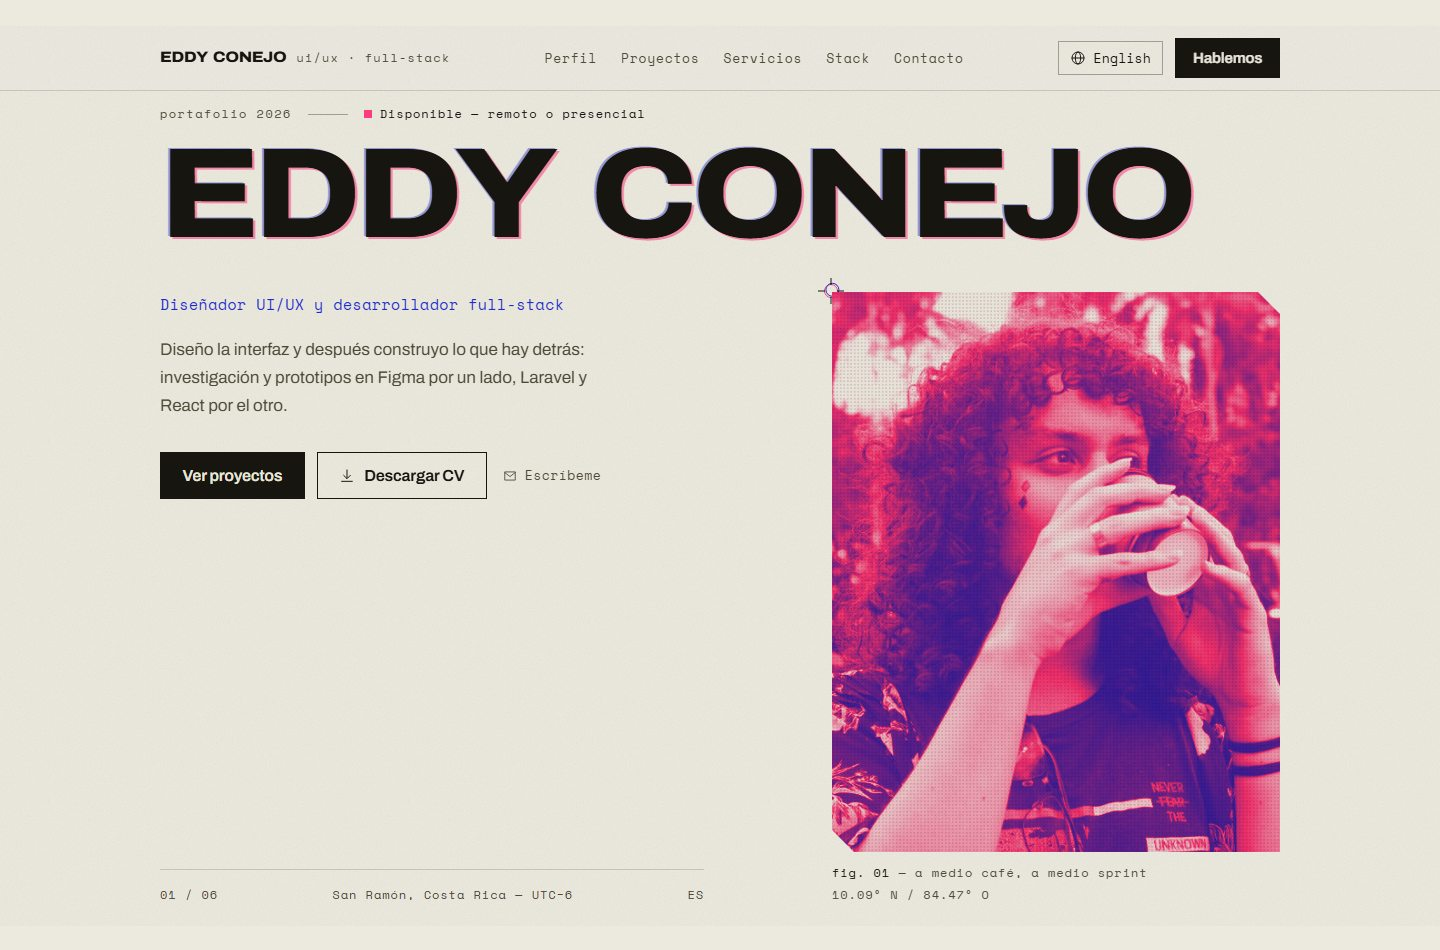
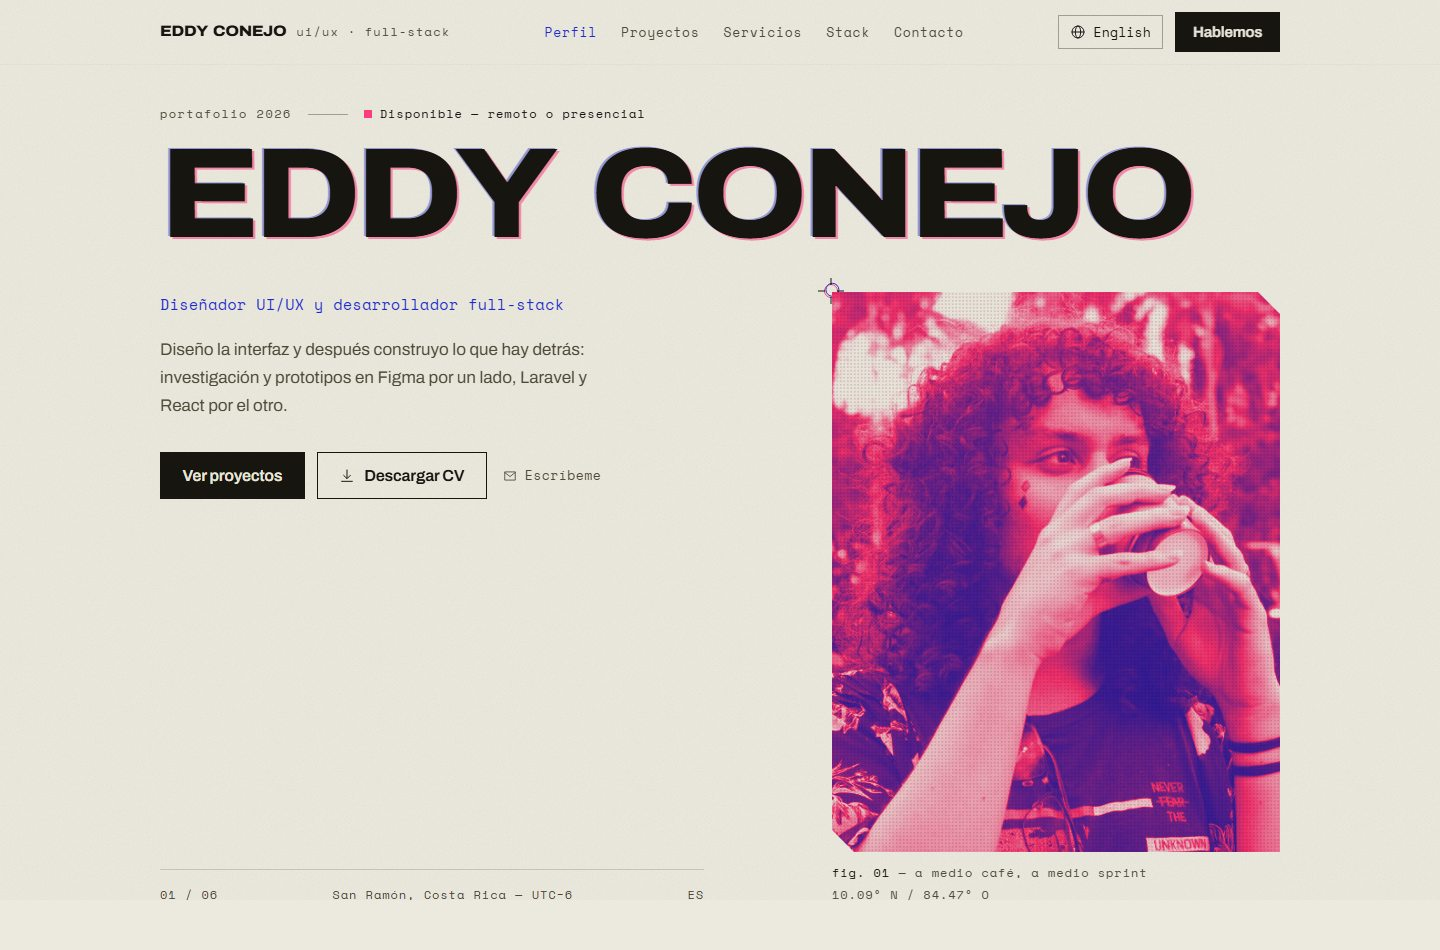
proyectos: captura real de LinkTrim y vista ampliada de la lamina
Extrae la captura de LinkTrim a src/assets/projects/linktrim.jpg (1600x789, 40 KB) y agrega un visor con dialog nativo: la lamina se abre a tamano completo con clic o teclado, cierra con Escape, clic fuera o boton, y devuelve el foco al disparador. Tambien agrega alt propio por proyecto.

diff --git a/src/components/Work.jsx b/src/components/Work.jsx
@@ -1,3 +1,4 @@
+import { useEffect, useRef, useState } from 'react'
 import { useLang } from '../LangContext'
 import { PROJECT_SLUGS } from '../site'
 import { projectImage } from '../projectImages'
@@ -7,6 +8,28 @@ import PlateFigure from './PlateFigures'
 export default function Work() {
   const { t } = useLang()
   const w = t.work
+  const [viewer, setViewer] = useState(null)
+  const dialogRef = useRef(null)
+
+  /* Native <dialog> handles Escape and focus return; we only sync the state. */
+  useEffect(() => {
+    const dialog = dialogRef.current
+    if (!dialog) return
+    if (viewer && !dialog.open) {
+      dialog.showModal()
+    } else if (!viewer && dialog.open) {
+      dialog.close()
+    }
+  }, [viewer])
+
+  useEffect(() => {
+    if (!viewer) return
+    const previous = document.body.style.overflow
+    document.body.style.overflow = 'hidden'
+    return () => {
+      document.body.style.overflow = previous
+    }
+  }, [viewer])
 
   return (
     <section id="work" className="section border-t border-line bg-paper-deep">
@@ -18,6 +41,10 @@ export default function Work() {
             const figureFirst = index % 2 === 1
             /* A real capture in src/assets/projects/ wins over the drawing. */
             const shot = projectImage(PROJECT_SLUGS[index])
+            const alt = plate.imageAlt ?? `${plate.title} — ${plate.kind}`
+            const figureClass = figureFirst
+              ? 'md:col-span-5 md:col-start-2 md:row-start-1'
+              : 'md:col-span-5 md:col-start-8 md:row-start-1'
 
             return (
               <article
@@ -64,24 +91,27 @@ export default function Work() {
                   </div>
                 </div>
 
-                <figure
-                  className={
-                    figureFirst
-                      ? 'md:col-span-5 md:col-start-2 md:row-start-1'
-                      : 'md:col-span-5 md:col-start-8 md:row-start-1'
-                  }
-                >
+                <figure className={figureClass}>
                   <div className="border border-line bg-paper p-2.5">
                     {shot ? (
-                      <img
-                        src={shot}
-                        alt={`${plate.title} — ${plate.kind}`}
-                        width="1600"
-                        height="1000"
-                        loading="lazy"
-                        decoding="async"
-                        className="block aspect-[16/10] w-full object-cover object-top"
-                      />
+                      <button
+                        type="button"
+                        onClick={() =>
+                          setViewer({ src: shot, alt, title: plate.title, kind: plate.kind })
+                        }
+                        className="group block w-full cursor-zoom-in"
+                        aria-label={`${plate.title}: ${w.zoom}`}
+                      >
+                        <img
+                          src={shot}
+                          alt={alt}
+                          width="1600"
+                          height="1000"
+                          loading="lazy"
+                          decoding="async"
+                          className="block aspect-[16/10] w-full object-cover object-top transition-opacity duration-200 group-hover:opacity-90"
+                        />
+                      </button>
                     ) : (
                       <PlateFigure index={index} />
                     )}
@@ -90,6 +120,7 @@ export default function Work() {
                     <span>fig. {String(index + 2).padStart(2, '0')}</span>
                     <span className="lowercase">
                       plate {String(index + 1).padStart(2, '0')}
+                      {shot ? <span className="text-cobalt"> · {w.zoom}</span> : null}
                     </span>
                   </figcaption>
                 </figure>
@@ -98,6 +129,34 @@ export default function Work() {
           })}
         </div>
       </div>
+
+      <dialog
+        ref={dialogRef}
+        className="plate-dialog"
+        aria-label={viewer ? `${viewer.title}: ${w.zoom}` : undefined}
+        onClose={() => setViewer(null)}
+        onClick={(event) => {
+          if (event.target === dialogRef.current) setViewer(null)
+        }}
+      >
+        {viewer ? (
+          <div className="p-3 sm:p-4">
+            <div className="mb-3 flex items-baseline justify-between gap-4">
+              <p className="font-mono text-[0.75rem] tracking-[0.06em] text-cobalt">
+                {viewer.title} — {viewer.kind}
+              </p>
+              <button
+                type="button"
+                onClick={() => setViewer(null)}
+                className="shrink-0 border border-line-strong px-2 py-1 font-mono text-[0.75rem] lowercase tracking-[0.06em] text-muted transition-colors hover:border-ink hover:bg-ink hover:text-paper"
+              >
+                {w.close} ✕
+              </button>
+            </div>
+            <img src={viewer.src} alt={viewer.alt} className="mx-auto block h-auto max-w-full" />
+          </div>
+        ) : null}
+      </dialog>
     </section>
   )
 }

diff --git a/src/i18n.js b/src/i18n.js
@@ -71,10 +71,14 @@ export const translations = {
       label: 'Selected work',
       title: 'Projects worth a look',
       stackLabel: 'Built with',
+      zoom: 'enlarge',
+      close: 'Close',
       plates: [
         {
           title: 'LinkTrim',
           kind: 'URL shortener — full stack',
+          imageAlt:
+            'LinkTrim home screen: the field for pasting a URL and the Shorten button.',
           description:
             'Low-latency redirects with three layers of collision prevention, automatic cleanup of dormant links on a cron schedule, and a decoupled cloud deployment across Vercel, Render and Aiven. The interface follows ISO 9241 accessibility guidance.',
           stack: ['React', 'Laravel', 'Docker', 'GitHub Actions', 'MySQL'],
@@ -279,10 +283,14 @@ export const translations = {
       label: 'Proyectos',
       title: 'Proyectos que vale la pena ver',
       stackLabel: 'Hecho con',
+      zoom: 'ampliar',
+      close: 'Cerrar',
       plates: [
         {
           title: 'LinkTrim',
           kind: 'Acortador de URLs — full stack',
+          imageAlt:
+            'Pantalla de inicio de LinkTrim: el campo para pegar una URL y el botón Acortar.',
           description:
             'Redirecciones de baja latencia con tres capas de prevención de colisiones, limpieza automática de enlaces inactivos por cron y un despliegue cloud desacoplado entre Vercel, Render y Aiven. La interfaz sigue la guía de accesibilidad ISO 9241.',
           stack: ['React', 'Laravel', 'Docker', 'GitHub Actions', 'MySQL'],

diff --git a/src/index.css b/src/index.css
@@ -305,6 +305,30 @@
     pointer-events: none;
   }
 
+  /* A plate pulled for inspection: the screenshot at full size on paper. */
+  .plate-dialog {
+    width: min(96vw, 78rem);
+    max-width: none;
+    max-height: 92vh;
+    margin: auto;
+    padding: 0;
+    border: 1px solid var(--color-ink);
+    background: var(--color-paper);
+    color: var(--color-ink);
+    overflow: auto;
+  }
+
+  .plate-dialog::backdrop {
+    background: rgba(23, 21, 15, 0.74);
+  }
+
+  .plate-dialog img {
+    max-height: calc(92vh - 6rem);
+    width: auto;
+    max-width: 100%;
+    margin-inline: auto;
+  }
+
   /* Motion: one entrance for the opening spread, nothing else auto-plays. */
   .rise {
     animation: rise 700ms cubic-bezier(0.2, 0.7, 0.2, 1) both;

diff --git a/src/assets/projects/README.md b/src/assets/projects/README.md
@@ -4,6 +4,8 @@ Deja aquí las capturas reales de cada proyecto. **No hay que tocar código**: e
 sitio detecta el archivo por su nombre y reemplaza el dibujo (la "lámina" SVG)
 de ese proyecto. Si no hay archivo, se queda el dibujo.
 
+Ahora mismo solo está `linktrim.jpg`; los otros cuatro siguen dibujados.
+
 ## Nombre del archivo
 
 El nombre debe ser exactamente el *slug* del proyecto:
@@ -20,12 +22,15 @@ Extensión: `.jpg`, `.jpeg`, `.png`, `.webp` o `.avif`, en minúsculas.
 
 ## Especificaciones
 
-- **Proporción 16:10** (la lámina se recorta con `object-cover` a ese marco).
-- **1600 × 1000 px** es el tamaño ideal; 1200 × 750 funciona igual.
+- **Proporción 16:10** ideal (la lámina recorta a ese marco con `object-cover`,
+  así que cualquier horizontal sirve: 2:1, 16:9, etc. Se recorta por los lados).
+- **1600 px de ancho** es el tamaño recomendado; 1200 funciona igual.
 - **Peso por debajo de 400 KB**: exporta JPG calidad 80 o WebP.
 - Captura la interfaz, no la maqueta de Figma con fondos de escritorio: se lee
   como evidencia de algo construido.
 - Las capturas se sirven tal cual, a color. El duotono es solo del retrato.
+- Al pulsar una captura en el sitio se abre a tamaño completo, así que conviene
+  que el texto de la interfaz se lea al tamaño original.
 
 ## Reemplazar o quitar una captura
 

diff --git a/README.md b/README.md
@@ -42,13 +42,17 @@ Los dibujos son el estado por defecto, no el definitivo. Para sustituir uno por 
 
 | Proyecto | Archivo |
 | --- | --- |
-| LinkTrim | `linktrim.jpg` |
+| LinkTrim | `linktrim.jpg` ✅ *(incluida)* |
 | Winter Olympics | `winter-olympics.jpg` |
 | Grupo Zenith | `grupo-zenith.jpg` |
 | CRFiguras | `crfiguras.jpg` |
 | Almacenes Unidos | `almacenes-unidos.jpg` |
 
-Formato: 1600 × 1000 px (16:10), JPG o WebP por debajo de 400 KB. Las capturas van a color; el duotono es solo del retrato.
+Formato: 1600 px de ancho, cualquier proporción horizontal (se recorta a 16:10), JPG o WebP por debajo de 400 KB. Las capturas van a color; el duotono es solo del retrato.
+
+Una captura se puede **abrir a tamaño completo** con clic o teclado: se muestra en un `<dialog>` nativo (Escape, clic fuera y retorno de foco incluidos), porque a 426 px de ancho la letra de una interfaz no se lee.
+
+![Vista ampliada de una captura](docs/preview-plate.jpg)
 
 ## Accesibilidad y rendimiento
 
